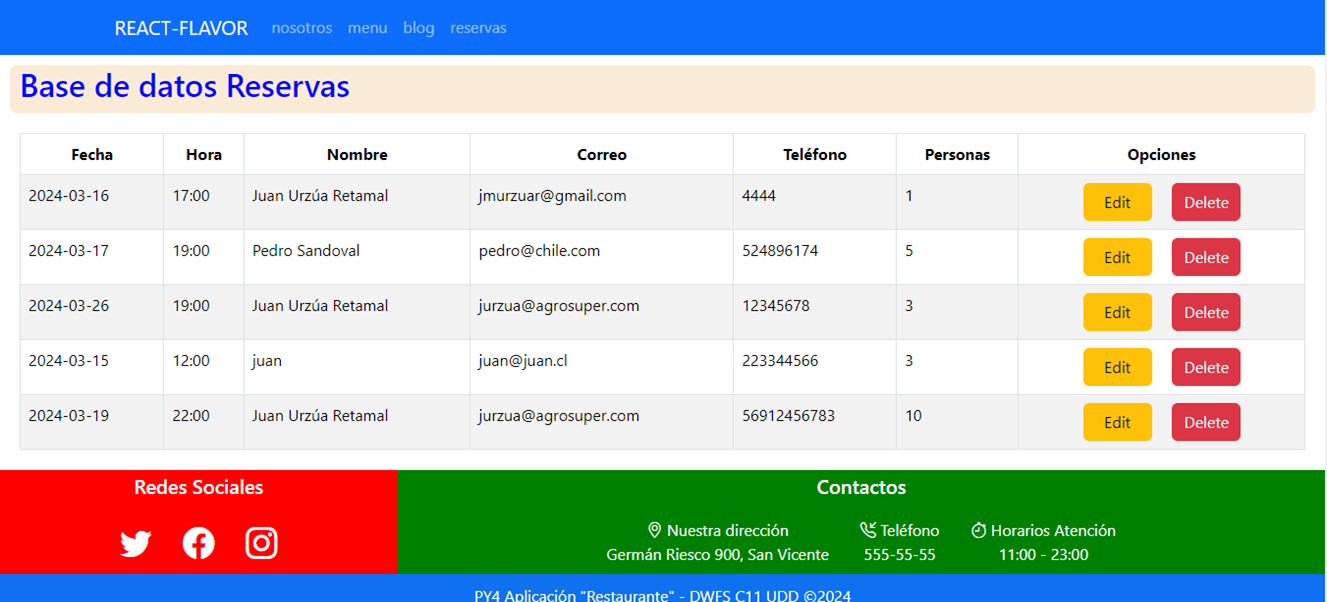
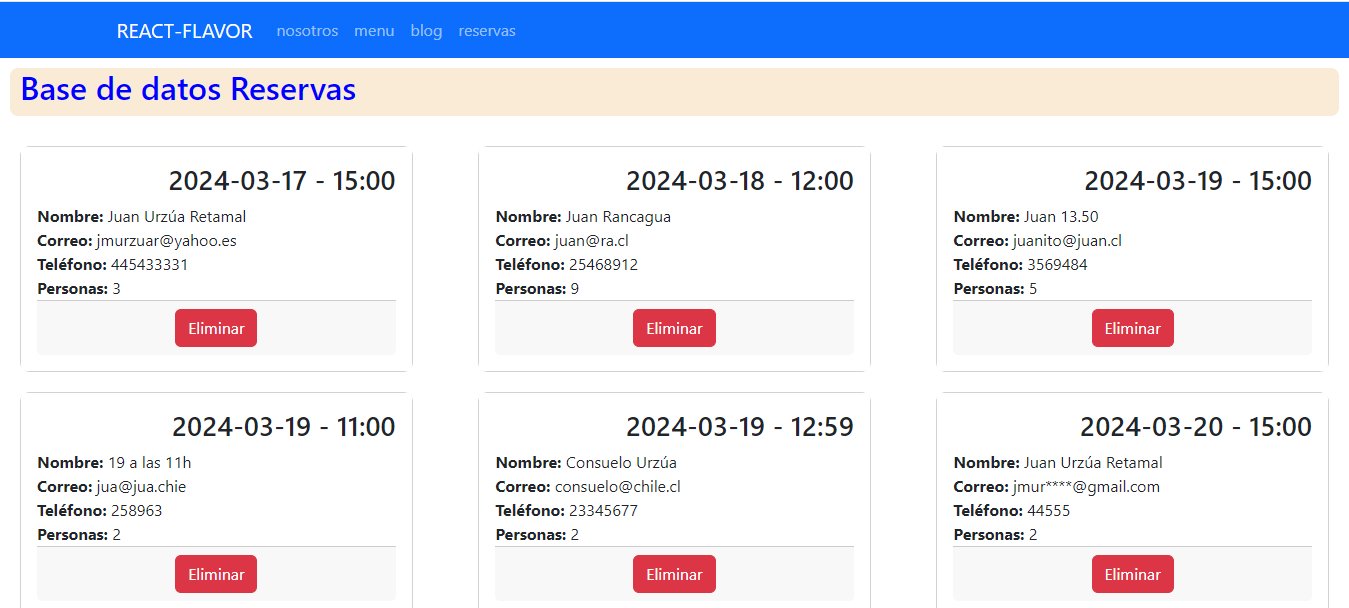
proyecto entrega

diff --git a/src/components/ReservasApp/ReservasApp.jsx b/src/components/ReservasApp/ReservasApp.jsx
@@ -25,7 +25,7 @@ const ReservasApp = () => {
         if (validateForm()) { //Si el formulario es valido llama a createCliente
             await createCliente(); // Agrega la informacion a la base de datos
             clearForm(); // Limpia el formulario
-            showModalWithMessage('Felicitaciones', ' Su reserva se ha realizada');
+            showModalWithMessage('Felicitaciones', 'Su reserva se ha realizado!!!, nos contacteremos con usted para confirmar disponibilidad y revisar los detalles, ya estamos trabajando para hacer de su visita una experiencia inolvidable');
             
             // alert("Reserva Realizada") // Envia una alerta al usuario
         }

diff --git a/src/components/BdReservas/BdReservas.css b/src/components/BdReservas/BdReservas.css
@@ -25,7 +25,7 @@
 }
 
 .card-grupo1 {
-    width: calc(25%); /* Ancho de la tarjeta: 33.33% menos el espacio entre tarjetas */
+    width: calc(30%); /* Ancho de la tarjeta: 33.33% menos el espacio entre tarjetas */
     overflow: hidden;
     border-radius: 10px;
     cursor: pointer;
